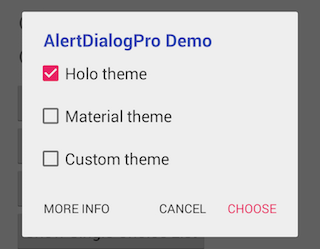
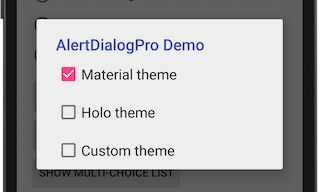
Fix CheckedTextViewCompat, also update README.
1. Fix issue #13
2. Update README file.
3. Update screenshots.

diff --git a/alertdialogpro-theme-material/src/com/alertdialogpro/material/CheckedTextViewCompat.java b/alertdialogpro-theme-material/src/com/alertdialogpro/material/CheckedTextViewCompat.java
@@ -1,8 +1,10 @@
 package com.alertdialogpro.material;
 
+import android.annotation.TargetApi;
 import android.content.Context;
 import android.graphics.Canvas;
 import android.graphics.drawable.Drawable;
+import android.os.Build;
 import android.util.AttributeSet;
 import android.view.Gravity;
 import android.view.accessibility.AccessibilityEvent;
@@ -114,6 +116,44 @@ public class CheckedTextViewCompat extends TextView implements Checkable {
         }
         mCheckMarkDrawable = d;
         requestLayout();
+    }
+
+    @Override
+    public void setVisibility(int visibility) {
+        super.setVisibility(visibility);
+
+        if (mCheckMarkDrawable != null) {
+            mCheckMarkDrawable.setVisible(visibility == VISIBLE, false);
+        }
+    }
+
+    @TargetApi(Build.VERSION_CODES.HONEYCOMB)
+    @Override
+    public void jumpDrawablesToCurrentState() {
+        super.jumpDrawablesToCurrentState();
+
+        if (mCheckMarkDrawable != null) {
+            mCheckMarkDrawable.jumpToCurrentState();
+        }
+    }
+
+    @Override
+    protected boolean verifyDrawable(Drawable who) {
+        return who == mCheckMarkDrawable || super.verifyDrawable(who);
+    }
+
+    /**
+     * Gets the checkmark drawable
+     *
+     * @return The drawable use to represent the checkmark, if any.
+     *
+     * @see #setCheckMarkDrawable(Drawable)
+     * @see #setCheckMarkDrawable(int)
+     *
+     * @attr ref android.R.styleable#CheckedTextView_checkMark
+     */
+    public Drawable getCheckMarkDrawable() {
+        return mCheckMarkDrawable;
     }
 
     @Override

diff --git a/alertdialogpro-demo/src/com/alertdialogpro/demo/MainActivity.java b/alertdialogpro-demo/src/com/alertdialogpro/demo/MainActivity.java
@@ -83,7 +83,7 @@ public class MainActivity extends ActionBarActivity implements View.OnClickListe
     }
 
     private void showNativeAlert() {
-        final String[] list = new String[]{"Holo theme", "Material theme", "Custom theme"};
+        final String[] list = new String[]{"Material theme", "Holo theme", "Custom theme"};
         new AlertDialog.Builder(this).setTitle(R.string.app_name).
                 setMultiChoiceItems(list,
                         new boolean[]{false, false, false},
@@ -130,7 +130,7 @@ public class MainActivity extends ActionBarActivity implements View.OnClickListe
 
     // Show a multi-choice dialog
     private void showMultiChoiceListAlertDialog() {
-        final String[] list = new String[]{"Holo theme", "Material theme", "Custom theme"};
+        final String[] list = new String[]{"Material theme", "Holo theme", "Custom theme"};
         new AlertDialogPro.Builder(this, mTheme).setTitle(R.string.app_name).
                 setMultiChoiceItems(list,
                         new boolean[]{false, false, false},

diff --git a/README.md b/README.md
@@ -8,7 +8,7 @@ There are two theme projects you can use directly: [alertdialogpro-theme-holo](h
    ![holo](https://github.com/fengdai/AlertDialogPro/blob/master/image/holo_light_dialog_only.png)
    ![mtrl](https://github.com/fengdai/AlertDialogPro/blob/master/image/material_light_dialog_only.png)
    ![flavored-mtrl](https://github.com/fengdai/AlertDialogPro/blob/master/image/flavored_material_light.png)
-   ![flavored-mtrl](https://github.com/fengdai/AlertDialogPro/blob/master/image/flavored_material_light_single_choice.png)
+   ![flavored-mtrl](https://github.com/fengdai/AlertDialogPro/blob/master/image/material_dark_dialog_only.png)
 
 
 Usage
@@ -30,26 +30,26 @@ Usage
 
 2. **alertdialogpro-theme-holo**
    
-   This a project which contains Holo resources for **AlertDialogPro**. Anyone who wants a Holo theme can include this project as an addition of alertdialogpro-core. It has two default Holo themes, ```AlertDialogProTheme.Holo``` and ```AlertDialogProTheme.Holo.Light```. The only thing you need to do is choose a theme from the two, and add it to your application's theme XML file. Your dialog will looks the same "Holo" across almost versions of Android backward to API level 3.
+   This a project which contains Holo resources for **AlertDialogPro**. Anyone who wants a Holo theme can include this project as an addition of alertdialogpro-core. It has two default Holo themes, ```Theme.AlertDialogPro.Holo``` and ```Theme.AlertDialogPro.Holo.Light```. The only thing you need to do is choose a theme from the two, and add it to your application's theme XML file. Your dialog will looks the same "Holo" across almost versions of Android backward to API level 3.
    1. Specify **AlertDialogPro**'s theme with attribute ```alertDialogProTheme```:
 
       ```xml
       <style name="AppTheme" parent="AppBaseTheme">
         ...
         <!-- Use Holo dark theme as global theme of this app -->
-        <item name="alertDialogProTheme">@style/AlertDialogProTheme.Holo</item>
+        <item name="alertDialogProTheme">@style/Theme.AlertDialogPro.Holo</item>
       </style>
       ```
    2. Your can override global theme with another in code when build dialog. Just specify it to the Builder:
 
       ```java
       // Build a AlertDialogPro with Holo light theme.
-      AlertDialogPro builder = new AlertDialogPro.Builder(getContext(), R.style.AlertDialogProTheme_Holo_Light);
+      AlertDialogPro.Builder builder = new AlertDialogPro.Builder(getContext(), R.style.Theme_AlertDialogPro_Holo_Light);
       ```
    
 3. **alertdialogpro-theme-material**
 
-   Similar to **alertdialogpro-theme-holo**, **alertdialogpro-theme-material** is a project to make material style **AlertDialogPro**. If you want a material dialog, you can simply include it to your project as an addition of **alertdialogpro-core**. Then you can use it's two themes: ```AlertDialogProTheme.Material``` and ```AlertDialogProTheme.Material.Light``` in your application's theme resource or code. Since it depends on AppCompat-v21, it only support minSdkVersion 7+ now.
+   Similar to **alertdialogpro-theme-holo**, **alertdialogpro-theme-material** is a project to make material style **AlertDialogPro**. If you want a material dialog, you can simply include it to your project as an addition of **alertdialogpro-core**. Then you can use it's two themes: ```Theme.AlertDialogPro.Material``` and ```Theme.AlertDialogPro.Material.Light``` in your application's theme resource or code. Since it depends on AppCompat-v21, it only support minSdkVersion 7+ now.
    
 4. **Theme customization**
 
@@ -107,19 +107,19 @@ Usage
       <style name="AlertDialogPro.Material">
         <!-- As HoneyComb's android:layout.
              Specify your AlertDialogPro's layout -->
-        <item name="adpLayout">@layout/alert_dialog_material</item>
+        <item name="adpLayout">@layout/adp_alert_dialog_material</item>
         <!-- As HoneyComb's android:listLayout.
              Specify your AlertDialogPro's ListView layout. -->
-        <item name="adpListLayout">@layout/select_dialog_material</item>
+        <item name="adpListLayout">@layout/adp_select_dialog_material</item>
         <!-- As HoneyComb's android:listItemLayout.
              Specify your AlertDialogPro's list item layout. -->
-        <item name="adpListItemLayout">@layout/select_dialog_item_material</item>
+        <item name="adpListItemLayout">@layout/adp_select_dialog_item_material</item>
         <!-- As HoneyComb's android:multiChoiceItemLayout.
              Specify your AlertDialogPro's multi choice list item layout. -->
-        <item name="adpMultiChoiceItemLayout">@layout/select_dialog_multichoice_material</item>
+        <item name="adpMultiChoiceItemLayout">@layout/adp_select_dialog_multichoice_material</item>
         <!-- As HoneyComb's android:singleChoiceItemLayout.
              Specify your AlertDialogPro's single choice list item layout. -->
-        <item name="adpSingleChoiceItemLayout">@layout/select_dialog_singlechoice_material</item>
+        <item name="adpSingleChoiceItemLayout">@layout/adp_select_dialog_singlechoice_material</item>
       </style>
       ```
       And add it to your theme:
